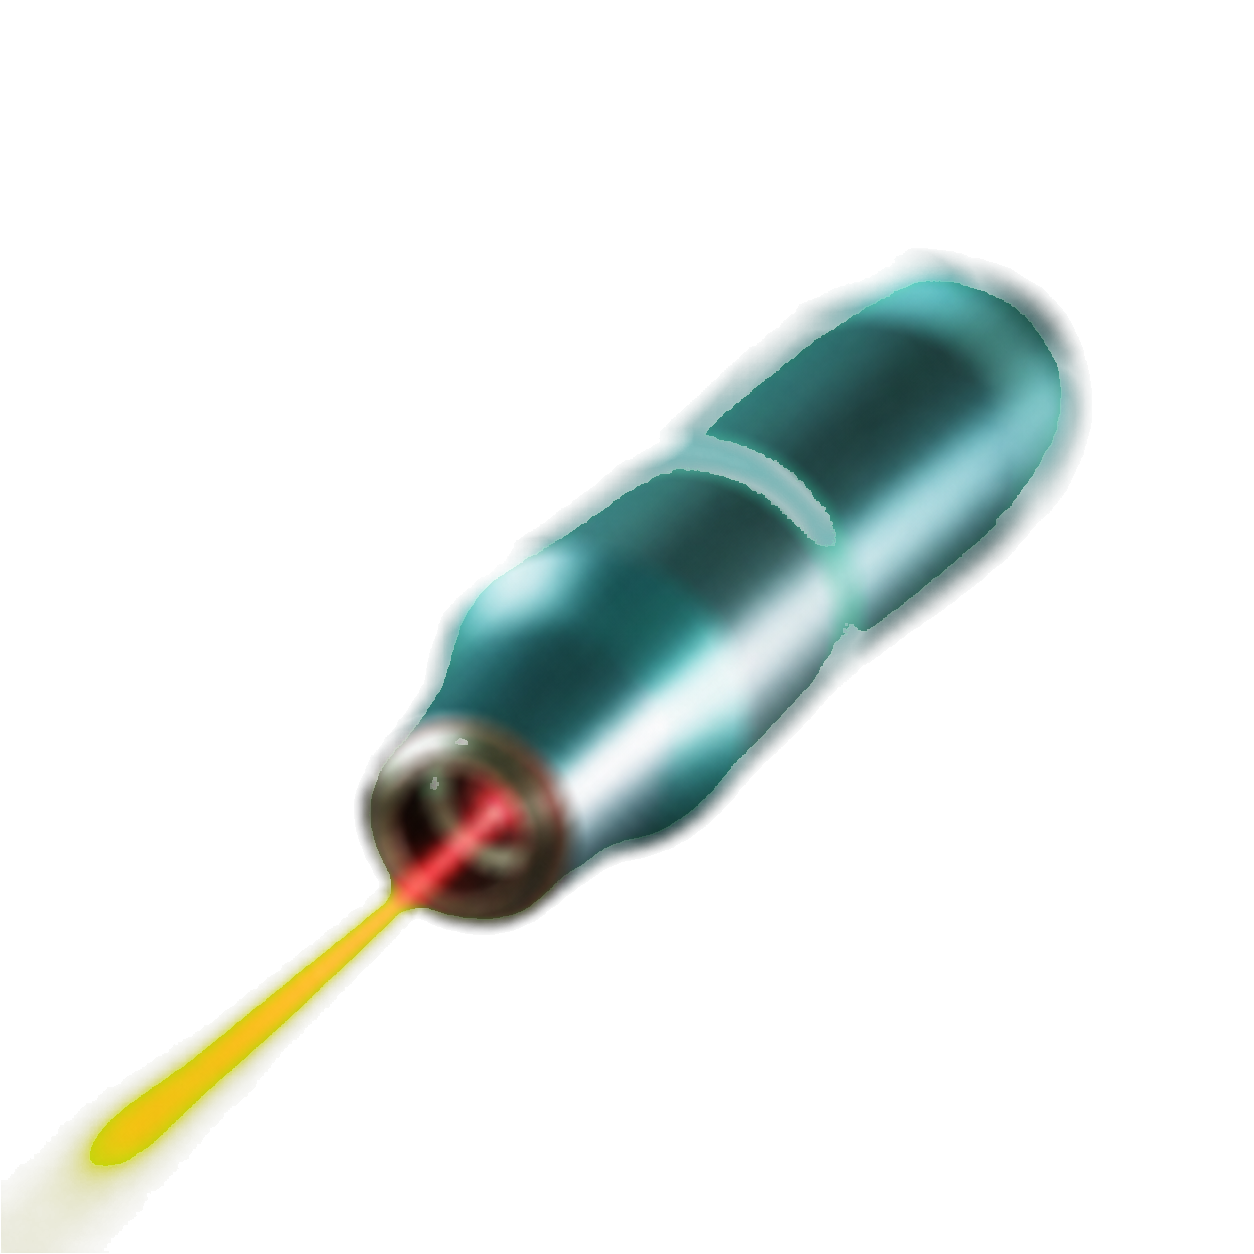
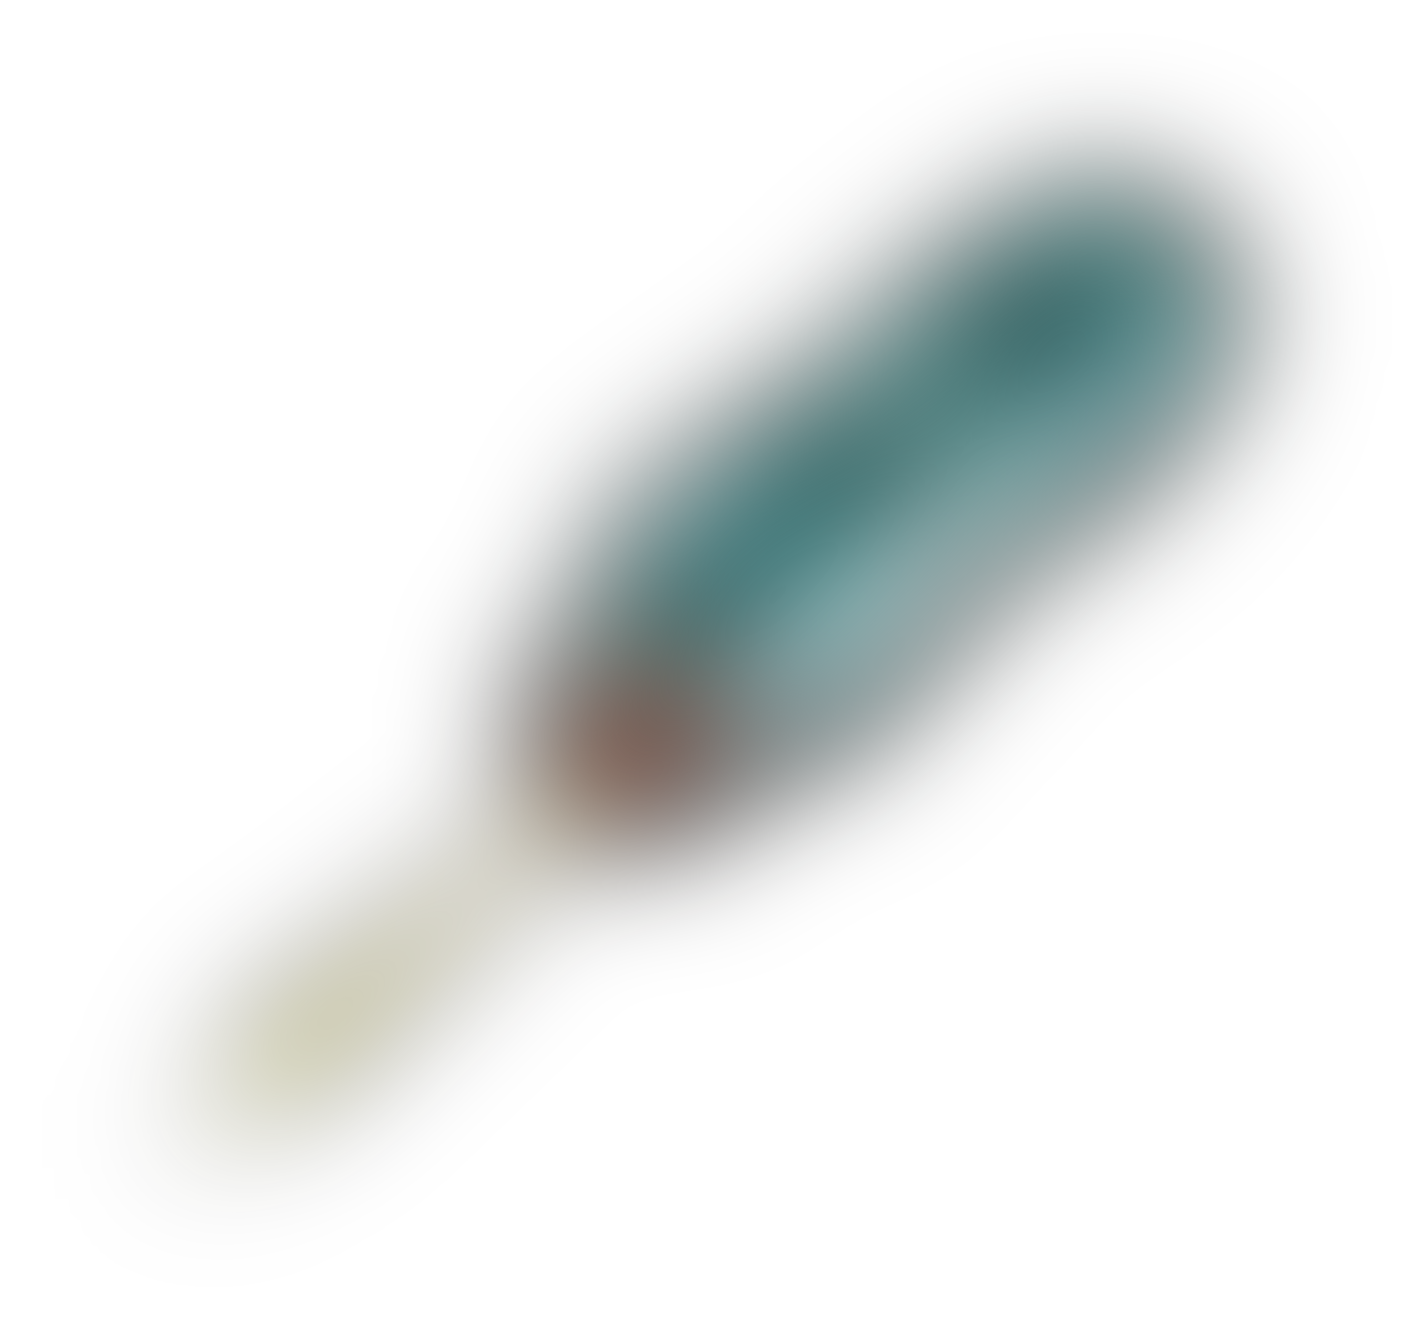
cpe: decors grandes cortados pela borda com rotação + blur pesado nos assets (ref. da capa)

Changed region(s): [[0.0, 0.0622, 0.933, 1.0]]

diff --git a/packs/clinical-photo-editorial/images.md b/packs/clinical-photo-editorial/images.md
@@ -14,3 +14,5 @@
 
 **Foto do par contínuo:** obrigatoriamente PAISAGEM larga (>=1792x1024) — cada slide mostra uma faixa vertical estreita; foto estreita faz as duas faixas coincidirem (repetição). O crop right continua exatamente onde o left parou.
 **Decor:** blur gaussiano FORTE (objeto claramente fora de foco, bokeh fotográfico) e tema inequívoco da vertical — nitidez ou objeto genérico = reprovado.
+
+**Decor (regra de composição):** GRANDE (área de grid ampla), sempre COLADO numa borda do slide para ser cortado por ela (impressão de 'voar'), com rotação leve (10–20°) e blur gaussiano MUITO forte (objeto quase abstrato, não rouba foco de título/foto). Nunca pequeno e solto no meio do canvas.
